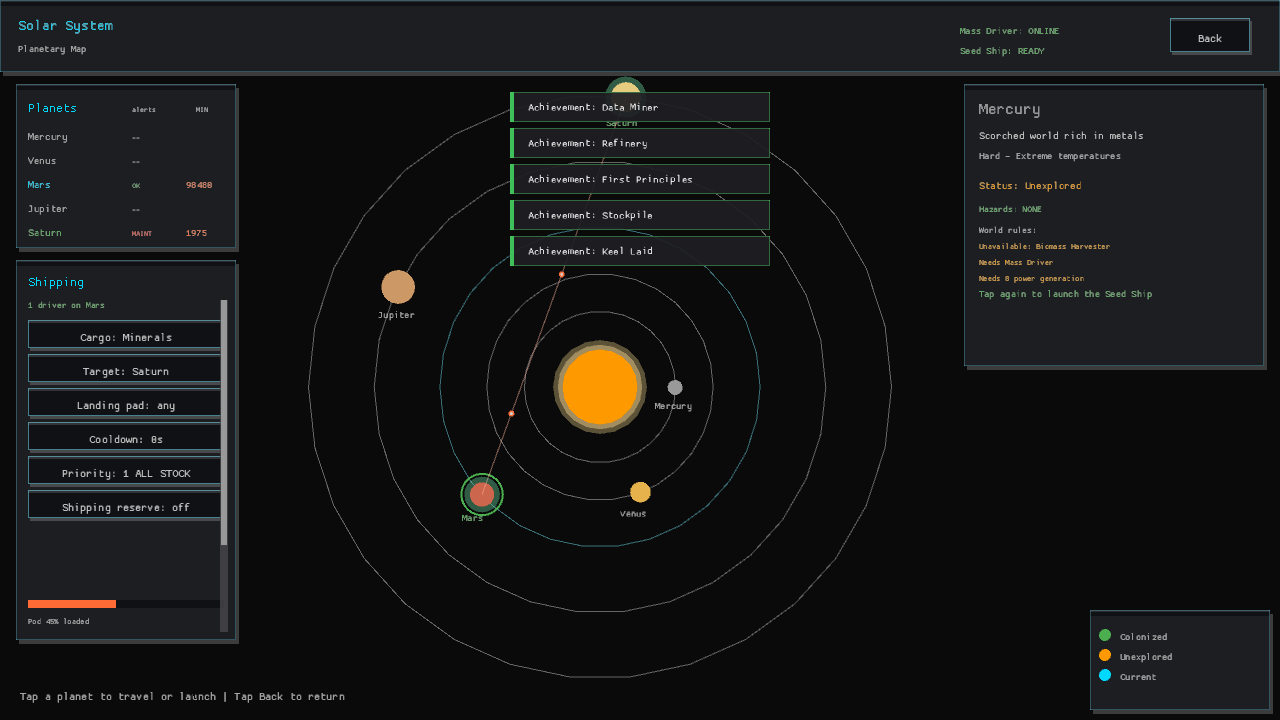
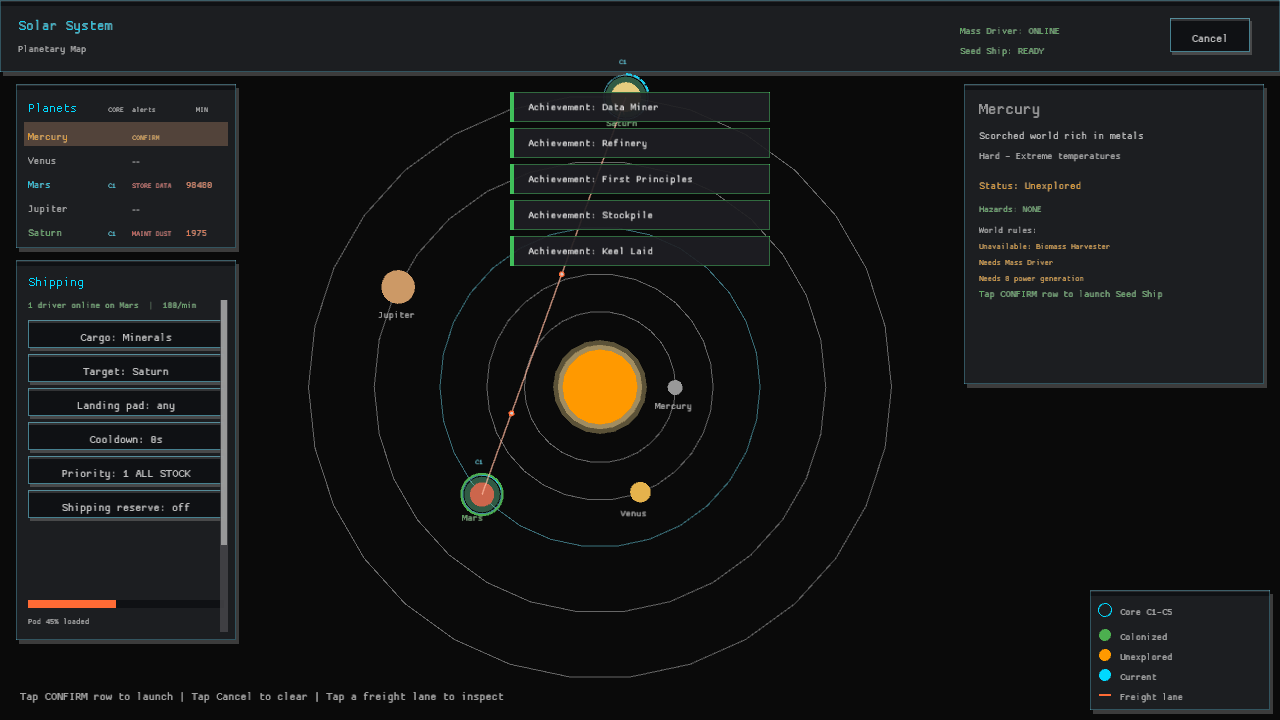
The swarm can abort a launch before it spends the ship (touch launch confirmation, GDD 4)
The launch confirmation state previously offered no explicit way to clear it without leaving the map or choosing another world. The Solar System header now becomes a visible Cancel control while a target is armed, and the interplanetary action path clears the transient target while playing the existing back cue.

The dossier, mobile dossier, and desktop footer now name the highlighted CONFIRM row so the second touch is discoverable at every supported layout. Updated desktop and phone verification captures show the armed row and Cancel control. Verified with 621 Rust tests, strict Clippy, formatting, source-size and diff checks, and a full Preview publish.

diff --git a/src/screens/interplanetary_view.rs b/src/screens/interplanetary_view.rs
@@ -23,6 +23,7 @@ use world_dossier::{
 pub enum InterplanetaryAction {
     None,
     Close,
+    CancelLaunch,
     SelectPlanet(usize),
     RequestLaunch(usize),
     LaunchSeedShip(usize),
@@ -144,8 +145,17 @@ pub fn render_interplanetary_view(
     draw_panel(0.0, 0.0, screen_w, header_height);
     draw_ui_text("Solar System", 18.0, 30.0, 18.0, Colors::PRIMARY);
     draw_ui_text("Planetary Map", 18.0, 52.0, 12.0, Colors::TEXT_DIM);
-    if draw_button_sized(screen_w - 110.0, 18.0, 80.0, 34.0, "Back") {
-        return InterplanetaryAction::Close;
+    let back_label = if view.launch_confirmation_target.is_some() {
+        "Cancel"
+    } else {
+        "Back"
+    };
+    if draw_button_sized(screen_w - 110.0, 18.0, 80.0, 34.0, back_label) {
+        return if view.launch_confirmation_target.is_some() {
+            InterplanetaryAction::CancelLaunch
+        } else {
+            InterplanetaryAction::Close
+        };
     }
 
     let driver_label = mass_driver_status_label(
@@ -418,8 +428,13 @@ pub fn render_interplanetary_view(
     draw_legend(screen_w, screen_h);
 
     // Instructions
+    let footer = if view.launch_confirmation_target.is_some() {
+        "Tap CONFIRM row to launch | Tap Cancel to clear | Tap a freight lane to inspect"
+    } else {
+        "Tap a planet to travel or launch | Tap a freight lane to inspect | Tap Back"
+    };
     draw_ui_text(
-        "Tap a planet to travel or launch | Tap a freight lane to inspect | Tap Back",
+        footer,
         20.0,
         screen_h - 20.0,
         Dimensions::FONT_SIZE_SMALL,

diff --git a/src/main/update.rs b/src/main/update.rs
@@ -371,6 +371,12 @@ impl Game {
                 self.save_campaign();
                 self.phase = GamePhase::Playing;
             }
+            InterplanetaryAction::CancelLaunch => {
+                self.launch_confirmation_target = None;
+                self.campaign
+                    .current_mut()
+                    .emit_audio(state::AudioEvent::UiBack);
+            }
             InterplanetaryAction::SelectPlanet(index) => {
                 self.launch_confirmation_target = None;
                 if self.campaign.travel_to(index) {

diff --git a/src/screens/interplanetary_view/tests.rs b/src/screens/interplanetary_view/tests.rs
@@ -86,8 +86,8 @@ fn launching_an_untouched_world_requires_a_second_tap() {
         launch_action(0, true),
         super::InterplanetaryAction::LaunchSeedShip(0)
     );
-    assert_eq!(launch_prompt(false), "Tap to prepare launch");
-    assert_eq!(launch_prompt(true), "Tap again to launch the Seed Ship");
+    assert_eq!(launch_prompt(true), "Tap CONFIRM row to launch Seed Ship");
+    assert_eq!(launch_prompt(false), "Tap world row to prepare launch");
 }
 
 #[test]

diff --git a/src/screens/interplanetary_view/mobile.rs b/src/screens/interplanetary_view/mobile.rs
@@ -545,7 +545,7 @@ fn draw_mobile_planet_info(
     } else if is_colonized {
         "Tap world row to travel"
     } else if can_launch {
-        "Tap world row to launch the Seed Ship"
+        super::launch_prompt(view.launch_confirmation_target == Some(index))
     } else if !view.mass_driver_researched {
         "Requires Mass Driver research"
     } else if view.current_drivers_online == 0 {

diff --git a/src/screens/interplanetary_view/status.rs b/src/screens/interplanetary_view/status.rs
@@ -46,9 +46,9 @@ pub(super) fn launch_action(index: usize, confirming: bool) -> InterplanetaryAct
 
 pub(super) fn launch_prompt(confirming: bool) -> &'static str {
     if confirming {
-        "Tap again to launch the Seed Ship"
+        "Tap CONFIRM row to launch Seed Ship"
     } else {
-        "Tap to prepare launch"
+        "Tap world row to prepare launch"
     }
 }
 

diff --git a/README.md b/README.md
@@ -133,8 +133,8 @@ Its header distinguishes a Mass Driver that is not built from one that is
 built but offline, and explains when a finished Seed Ship still needs a live
 driver.
 Tap an untouched world once to prepare a launch, then tap its highlighted
-`CONFIRM` row again to confirm; travel to an already-colonized world remains
-one tap.
+`CONFIRM` row again to confirm; tap `CANCEL` to clear the armed launch.
+Travel to an already-colonized world remains one tap.
 At compact browser sizes, the resource cards abbreviate and the build/right
 panels use short summaries so touch controls remain separated and visible.
 At short desktop heights or tablet widths, Solar System uses full-width Worlds
